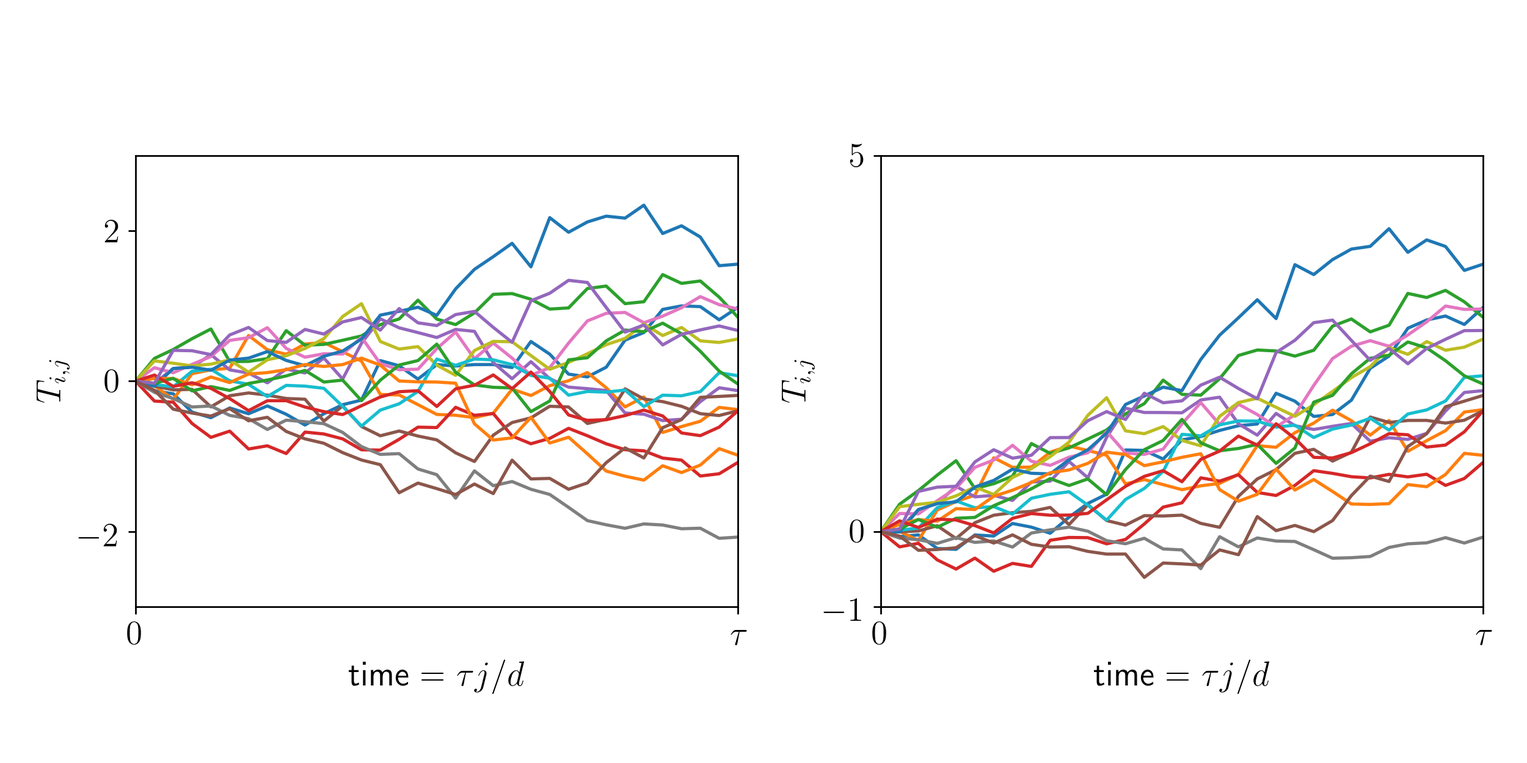
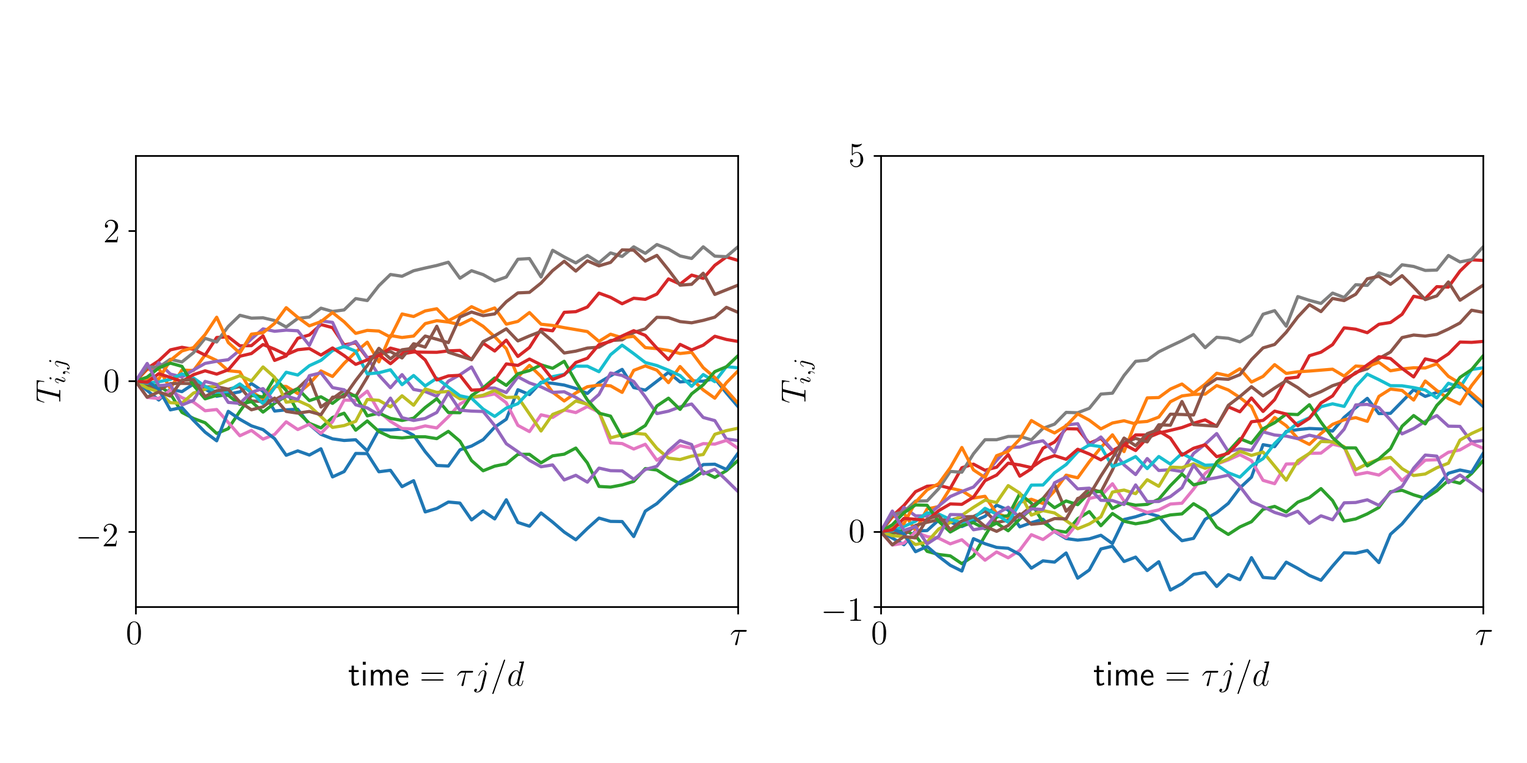
under the hood updates

Changed region(s): [[0.0936, 0.2808, 0.4992, 0.7176], [0.5616, 0.312, 0.9672, 0.78]]

diff --git a/QMCSoftwareArticleNoRho.tex b/QMCSoftwareArticleNoRho.tex
@@ -147,7 +147,7 @@ Department of Applied Mathematics, Illinois Institute of Technology,\\ RE 220, 1
 
 \maketitle
 
-\abstract{This is the article based on my MCQMC 2020 Tutorial. \AGSComment{Latest code demo at: \href{https://colab.research.google.com/drive/1wijwt0ugsJ9chUHtzSb3lQpc3-N8mCDs?usp=sharing}{https://colab.research.google.com/drive/1wijwt0ugsJ9chUHtzSb3lQpc3-N8mCDs?usp=sharing}}.}
+\abstract{This is the article based on my MCQMC 2020 Tutorial.}
 
 
 \section{Introduction} \label{sec:intro}
@@ -197,7 +197,7 @@ The error in using the sample mean to approximate the integral can be bounded ac
 \end{equation} 
 The variation is a (semi-) norm of the integrand in a suitable Banach space.  The discrepancy corresponds to the norm of the error functional for that Banach space.  For typical Banach spaces, the discrepancy of LD points is $\calO(n^{-1+\epsilon})$, which is a higher convergence order than for IID points.  For details, the reader is referred to the references.  For our purposes, we expect the reader to see in Figure \ref{fig:comparePts} that the LD points cover the integration domain more evenly than IID points.  In the examples below the reader will see the demonstrably smaller cubature errors arising from using LD points.
 
-In the sections that follow we first overview available QMC software.  We next describe an architecture for good QMC software, i.e., what are the key components and how should they interact.  We then describe how we have implemented this architecture in QMCPy.  Finally, we summarize further directions that we hope QMCPy and related software projects will take.  Those interested in following the development of QMCPy or even contributing to that development are urged to visit the GitHub repository at \href{https://qmcsoftware.github.io/QMCSoftware/}{\nolinkurl{https://qmcsoftware.github.io/QMCSoftware/}}.
+In the sections that follow we first overview available QMC software.  We next describe an architecture for good QMC software, i.e., what are the key components and how should they interact.  We then describe how we have implemented this architecture in QMCPy.  Finally, we summarize further directions that we hope QMCPy and related software projects will take.  Those interested in following the development of QMCPy or even contributing to that development are urged to visit the GitHub repository at \href{https://github.com/QMCSoftware/QMCSoftware}{\nolinkurl{https://github.com/QMCSoftware/QMCSoftware}}.
 
 \section{Available Software for QMC} \label{sec:available} 
 QMC software spans  LD sequence generators, algorithms, and applications.  We review the better known software collections, recognizing that some software overlaps multiple categories.
@@ -227,7 +227,7 @@ Software focusing on QMC algorithms and applications includes
 The sections that follow describe QMCPy \cite{QMCPy2020a}, which is our attempt to combine the best of the above software under a common user interface written in Python 3.  The choice of language was determined by the desire to make QMC software accessible to a broad audience, especially the tech industry.
 
 \section{Components of QMC Software}
-QMC cubature can be summarized as follows.  We want to approximate the integral oe expectation, $\mu$, well by the sample mean, $\hmu$, where \eqref{eq:integral}, \eqref{eq:fintegral}, and \eqref{eq:samplemean} combine to give
+QMC cubature can be summarized as follows.  We want to approximate the expectation, $\mu$, well by the sample mean, $\hmu$, where \eqref{eq:integral}, \eqref{eq:fintegral}, and \eqref{eq:samplemean} combine to give
 \begin{multline} \label{eq:cubSummary}
 	\mu : = \int_\calT g(\bst) \, \lambda(\bst) \, \D \bst  = \bbE[f(\bsX)] = \int_{\cube} f(\bsx) \, \D \bsx \approx \frac 1n \sum_{i=0}^{n-1} f(\bsX_i) =: \hmu, \\
 	 \bsX_0, \bsX_1, \ldots \sim \calU\cube.
@@ -247,7 +247,7 @@ This requires four components, which we implement as QMCPy classes.
 
 The software libraries referenced in Section \ref{sec:available} provide one or more of these components. QMCPy combines multiple examples of them all under and object oriented framework. Each example is implemented as a concrete class that realizes the properties and methods required by the abstract class for that component. The following sections detail descriptions and use cases for each component and select implementations. 
 
-Thorough documentation of all QMCPy classes can be found in \cite{QMCPyDocs}. Demonstrations of how QMCPy work are given in Google Colab notebooks \cite{QMCPyTutColab2020,QMCPyTutColab2020_paper} \AGSComment{Update \cite{QMCPyTutColab2020_paper}'s link}. The project may be installed from PyPI into your Python 3 environment via the command \texttt{pip install qmcpy}. In the codes that follows, we assume QMCPy has been imported alongside Numpy \cite{numpy} 
+Thorough documentation of all QMCPy classes can is available in \cite{QMCPyDocs}. Demonstrations of how QMCPy work are given in Google Colab notebooks \cite{QMCPyTutColab2020,QMCPyTutColab2020_paper} \AGSComment{Update \cite{QMCPyTutColab2020_paper}'s link}. The project may be installed from PyPI into your Python 3 environment via the command \texttt{pip install qmcpy}. In the codes that follows, we assume QMCPy has been imported alongside NumPy \cite{numpy} 
 %and Scipy \cite{scipy} 
 via
 \lstinputlisting[style=Python]{QMCSoftwareArticle/python/import.txt}
@@ -307,12 +307,12 @@ Here, $\bsZ_4$ differs from that for lattices, but more importantly, addition fo
 = (0.375,0.375) = \bsZ_6.
 \end{multline*}
 
-By contrast, if we construct a digital sequence using the generators for the lattice above with $\bsZ_2 = (0.25, 0.75)$, and $\bsZ_4 = (0.125, 0.875)$, we would obtain
+By contrast, if we construct a digital sequence using the generators for the lattice above with $\bsZ_2 = (0.25, 0.75)$, and $\bsZ_4 = (0.125, 0.375)$, we would obtain
 \begin{multline*}
-\bsZ_6 = \bsZ_2 \oplus_{\dig} \bsZ_4   = ({}_20.010,{}_20.110)  \oplus_{\dig} ({}_20.001,{}_20.111)  \\
-= ({}_20.011,{}_20.001) = (0.375, 0.125),
+\bsZ_6 = \bsZ_2 \oplus_{\dig} \bsZ_4   = ({}_20.010,{}_20.110)  \oplus_{\dig} ({}_20.001,{}_20.011)  \\
+= ({}_20.011,{}_20.101) = (0.375, 0.625),
 \end{multline*}
-which differs from the $\bsZ_6=(0.375, 0.625)$ constructed for lattices.  To emphasize, lattices and digital sequences are different, even if they share the same generators, $\bsZ_1, \bsZ_2, \bsZ_4, \ldots$.
+which differs from the $\bsZ_6=(0.375, 0.125)$ constructed for lattices.  To emphasize, lattices and digital sequences are different, even if they share the same generators, $\bsZ_1, \bsZ_2, \bsZ_4, \ldots$.
 
 The examples of \texttt{qp.Lattice} and \texttt{qp.Sobol} illustrate how QMCPy LD generators share a common user interface.  The dimension is specified when the instance is constructed, and the number of points is specified when the \texttt{gen\_samples} method is called.  Following Python practice, parameters can be input without specifying their names if they are input in the prescribed order.  QMCPy also includes Halton sequences and IID sequences, again deferring details to the QMCPy documentation \cite{QMCPyDocs}.
 
@@ -352,7 +352,7 @@ Figure \ref{fig:tm_ug} displays LD sequences transformed as described above to m
 \lstinputlisting[style=Python]{QMCSoftwareArticle/python/tm_uniform.txt}
 for uniform points based on a Halton sequence, and 
 \lstinputlisting[style=Python]{QMCSoftwareArticle/python/tm_gaussian.txt}
-for Gaussian points based on a lattice sequence.
+for Gaussian points based on a lattice sequence. Here the covariance decomposition $\mSigma = \mA \mA^T$ is done using principal component analysis. The Cholesky decomposition also available.
 
 \begin{figure}
 	\includegraphics[width=.45\textwidth]{QMCSoftwareArticle/figs/tm_uniform.png} 
@@ -372,7 +372,7 @@ Figure \ref{fig:tm_bm} displays a Brownian motion based on Sobol' sequence with 
 
 \begin{figure}
 	\includegraphics[width=1\textwidth]{QMCSoftwareArticle/figs/tm_bm.png} 
-	\caption{Sobol' samples transformed to mimic a 32-dimensional Brownian Motion without drift (left) and with drift coefficient 2 (right).}
+	\caption{Sobol' samples transformed to mimic a 52-dimensional Brownian Motion without drift (left) and with drift coefficient 2 (right).}
 	\label{fig:tm_bm}
 \end{figure}
 
@@ -393,7 +393,7 @@ We illustrate the use of the \texttt{Integrand} class via an example of Keister 
 	= \int_{\bbR^d} \cos(\lVert \bst \rVert) \exp(-\bst^T \bst) \, \D \bst \\ 
 	= \int_{\bbR^d} \underbrace{\pi^{d/2} \cos(\lVert \bst \rVert)}_{g(\bst)}\, \underbrace{\pi^{-d/2} \exp(-\bst^T \bst) }_{\lambda(\bst)} \, \D \bst.
 \end{equation}
-Since $\lambda$ is the density for $\calN(0,\mI/2)$, it is natural to choose $\bsPsi$ according to \eqref{eq:exampleVarTransGauss} with $\mA = \sqrt{1/2} \, \mI$, in which case $\lambda(\bsPsi(\bsx)) \QMCPYabs{\partial \bsPsi/\partial \bsx} / \varrho(\bsx) = 1$, and so 
+Since $\lambda$ is the density for $\calN(0,\mI/2)$, it is natural to choose $\bsPsi$ according to \eqref{eq:exampleVarTransGauss} with $\mA = \sqrt{1/2} \, \mI$, in which case $\lambda(\bsPsi(\bsx)) \QMCPYabs{\partial \bsPsi/\partial \bsx} = 1$, and so 
 \[
 \mu = \int_{[0,1]^d} \underbrace{\pi^{d/2} \cos(\lVert \bsPsi(\bsx) \rVert)}_{f(\bsx)} \, \D \bsx, \qquad 
 \bsPsi(\bsx) := \sqrt{1/2} \,\bsPhi^{-1}(\bsx).
@@ -414,14 +414,14 @@ Another way to approximate the Keister integral in \eqref{eq:KeisterIntegral} is
 	& = \int_{\bbR^d} \underbrace{\cos(\lVert \bst \rVert) \exp(-\bst^T \bst) }_{g(\bst)} \, \underbrace{1}_{\lambda(\bst)} \,\D \bst \\
 	& = \int_{[0,1]^d} \underbrace{\cos(\lVert \bsPsi(\bsx) \rVert) \exp(-\bsPsi^T\!\!(\bsx) \bsPsi(\bsx)) \QMCPYabs{\frac{\partial \bsPsi}{\partial \bsx}} }_{f(\bsx)} \, \D \bsx,
 \end{align*}
-where $\bsPsi$ is any transformation from $\bbR^d$ to $[0,1]^d$.  QMCPy can perform the cubature this way as well.
+where $\bsPsi$ is any transformation from $[0,1]^d$ to $\bbR^d$.  QMCPy can perform the cubature this way as well.
 \lstinputlisting[style=Python]{QMCSoftwareArticle/python/i_keisterLebesgue.txt}
-The $\bsPsi$ chosen when transforming uniform points on the unit cube to fill the $\bbR^d$ is the one given by \eqref{eq:exampleVarTransGauss} with $\mA = \mI$.
+The $\bsPsi$ chosen when transforming uniform points on the unit cube to fill $\bbR^d$ is the one given by \eqref{eq:exampleVarTransGauss} with $\mA = \mI$.
 
 In the examples above, one must input the correct $g$ into \texttt{CustomFun} along with the correct \texttt{TrueMeasure} $\lambda$ to define the integration problem. The \texttt{Keister} integrand included in the QMCPy library takes a more flexible approach of defining the integration problem $\mu$ in \eqref{eq:KeisterIntegral}. Selecting a different \texttt{sampler} $\bsPsi$ performs  \emph{importance sampling} which leaves $\mu$ unchanged.  
 \lstinputlisting[style=Python]{QMCSoftwareArticle/python/i_keisterBuiltIn.txt}
 
-In the first case above, the $\lambda$ in \eqref{eq:transVar} corresponds to the density IID Gaussian with mean zero and variance $1/2$ by default, and the corresponding variable transformation, $\bsPsi$, is chosen to make $\lambda\bigl(\bsPsi(\cdot)\bigr) \QMCPYabs{\partial \bsPsi/\partial \bsx} = 1$ and $f(\bsx) = g\left(\bsPsi(\bsx) \right)$.  In the second case,  we choose an importance sampling density $\lambda_{\IMP}$, corresponding  to standard  Gaussian, and the variable transformation $\bsPsi_{\IMP}$ makes $\lambda_\IMP\bigl(\bsPsi\IMP(\cdot)\bigr) \QMCPYabs{\partial \bsPsi_\IMP/\partial \bsx} = 1$.  Then
+In the first case above, the $\lambda$ in \eqref{eq:transVar} corresponds to the Gaussian density  with mean zero and variance $1/2$ by default, and the corresponding variable transformation, $\bsPsi$, is chosen to make $\lambda\bigl(\bsPsi(\cdot)\bigr) \QMCPYabs{\partial \bsPsi/\partial \bsx} = 1$ and $f(\bsx) = g\left(\bsPsi(\bsx) \right)$.  In the second case,  we choose an importance sampling density $\lambda_{\IMP}$, corresponding  to standard  Gaussian, and the variable transformation $\bsPsi_{\IMP}$ makes $\lambda_\IMP\bigl(\bsPsi\IMP(\cdot)\bigr) \QMCPYabs{\partial \bsPsi_\IMP/\partial \bsx} = 1$.  Then
 \begin{align}
 	\nonumber 
 	\mu &= \int_\calT g(\bst) \, \lambda(\bst) \, \D \bst  = \int_\calT g(\bst) \, \frac{\lambda(\bst)}{\lambda_\IMP(\bst) } \, \lambda_\IMP(\bst) \D \bst  \\ 
@@ -440,22 +440,22 @@ The \texttt{StoppingCriterion} object determines the number of samples $n$ that 
 
 Let us return to the Keister example from the previous section.  After setting up  a default \texttt{Keister} instance via a Sobol' \texttt{DiscreteDistribution}, we choose a \texttt{StoppingCriterion} object that matches the \texttt{DiscreteDistribution}, inputting our desired tolerance.  Calling the  \texttt{integrate} method returns the approximate integral plus some useful information about the computation.
 \lstinputlisting[style=Python]{QMCSoftwareArticle/python/sc_keister_qmc.txt}
-The second output of the stopping criterion provides helpful diagnostic information.  This computation required $n=2^{13}$ Sobol' points and $0.028$ seconds to complete.  The error bound is $0.000517$, which falls below the absolute tolerance.
+The second output of the stopping criterion provides helpful diagnostic information.  This computation required $n=2^{13}$ Sobol' points and $0.028$ seconds to complete.  The error bound is $0.000565$, which falls below the absolute tolerance.
 
 QMC, which uses LD sequences, is touted as providing substantially greater computational efficiency compared to IID MC.
 Figure \ref{fig:sc_comp} compares the time and sample sizes needed to compute the $5$-dimensional Keister integral \eqref{eq:KeisterIntegral} using IID sequences and LD lattice sequences. Consistent with what is stated in Section \ref{sec:intro}, the error of IID MC is $\calO(n^{-1/2})$, which means that the time and sample size to obtain an absolute error tolerance of $\varepsilon$ is $\calO(\varepsilon^{-2})$.  By contrast, the  error of QMC using LD sequences is $\calO(n^{-1+\epsilon})$, which implies $\calO(\varepsilon^{-1-\epsilon})$ times and sample sizes.  We see that QMC methods often require orders of magnitude fewer samples that MC methods to achieve the same error tolerance.
 
 \begin{figure}
 	\includegraphics[height=6cm]{QMCSoftwareArticle/figs/sc_comp.png}
-	\caption{Comparison of run times and sample sizes for computing the $5$-dimensional Keister integral \eqref{eq:KeisterIntegral} using IID and LD lattice sequences for a variety of absolute error tolerances.  The respective stopping criteria are  \texttt{CubMCG} \AGSComment{CITE} and  \texttt{CubQMCLatticeG} \AGSComment{CITE}. The LD sequences provide the desired answer much more efficiently.}
+	\caption{Comparison of run times and sample sizes for computing the $5$-dimensional Keister integral \eqref{eq:KeisterIntegral} using IID and LD lattice sequences for a variety of absolute error tolerances. The respective stopping criteria are  \texttt{qp.CubMCG} \cite{HicEtal14a} and  \texttt{qp.CubQMCLatticeG} \cite{JimHic16a} \AGSComment{Citations correct?}. The LD sequences provide the desired answer much more efficiently.}
 	\label{fig:sc_comp}
 \end{figure}
 
-For another illustration of QMC cubature, we turn to pricing an Asian arithmetic mean call option. The payoff of this option is the positive difference between the strike price averaged over the time horizon and the strike price, $K$: 
+For another illustration of QMC cubature, we turn to pricing an Asian arithmetic mean call option. The payoff of this option is the positive difference between the strike price, $K$, averaged over the time horizon: 
 $$
 \text{payoff}(\bsS) = \max\left(\frac{1}{2d}\sum_{j=1}^d (S_{j-1}+S_j)-K,0\right), \quad \bsS = (S_0, \ldots, S_d).
 $$
-where $S_j$ denotes the stock price at time $\tau j/d$.  A basic model for stock prices is a geometric Brownian motion, 
+Here $S_j$ denotes the stock price at time $\tau j/d$, and a trapezoidal rule is used for discrete approximation.  A basic model for stock prices is a geometric Brownian motion, 
 \[
 S_j(\bsT) = S_0 \exp((r - \sigma^2) \tau j/d + \sigma T_j),   \;  j = 1, \ldots, d, \; \bsT = (T_1, \ldots, T_d)\sim \calN(0,\mSigma),
 \]
@@ -466,7 +466,7 @@ where $\mSigma$ is defined in \eqref{eq:BMcov}, $r$ is the interest rate, $\sigm
 
 The following code utilizes QMCPy's Asian option \texttt{Integrand} object to approximate the Asian call option for a particular choice of the parameters.
 \lstinputlisting[style=Python]{QMCSoftwareArticle/python/sc_aco.txt}
-Because this \texttt{Integrand} object has the built-in Brownian motion t\texttt{TrueMeasure}, one only neeed provide the LD sampler.
+Because this \texttt{Integrand} object has the built-in Brownian motion \texttt{TrueMeasure}, one only need provide the LD sampler.
 
 Out of the money option price calculations can be sped up by adding a drift to the Brownian motion that produces more in the money paths.  This is a form of importance sampling.  Using a Brownian motion without drift we get
 \lstinputlisting[style=Python]{QMCSoftwareArticle/python/wo_imp_samp_aco.txt}
@@ -474,8 +474,7 @@ Adding the drift gives us the answer faster:
 \lstinputlisting[style=Python]{QMCSoftwareArticle/python/w_imp_samp_aco.txt}
 The choice of a good drift is an art.  
 
-The the improvement in time is less than improvement in $n$ because the integrand is more expensive to compute in when the drift is employed.  Referring to \eqref{eq:transVarImp}, in the case of no drift, the $\lambda$ corresponds to the density for the discrete Brownian motion, and the variable transformation $\bsPsi$ is chosen so that $f(\bsx) = g\left(\bsPsi(\bsx) \right)$.  However, in the case of a drift, the integrand becomes  $f_\IMP(\bsx)  = g\bigl(\bsPsi_\IMP(\bsx)\bigr)  \lambda\bigl(\bsPsi_\IMP(\bsx)\bigr)/\lambda_\IMP\bigl(\bsPsi_\IMP(\bsx)\bigr)$, which requires more computation time per integrand value.   more 
-
+The improvement in time is less than improvement in $n$ because the integrand is more expensive to compute when the drift is employed.  Referring to \eqref{eq:transVarImp}, in the case of no drift, the $\lambda$ corresponds to the density for the discrete Brownian motion, and the variable transformation $\bsPsi$ is chosen so that $f(\bsx) = g\left(\bsPsi(\bsx) \right)$.  However, in the case of a drift, the integrand becomes  $f_\IMP(\bsx)  = g\bigl(\bsPsi_\IMP(\bsx)\bigr)  \lambda\bigl(\bsPsi_\IMP(\bsx)\bigr)/\lambda_\IMP\bigl(\bsPsi_\IMP(\bsx)\bigr)$, which requires more computation time per integrand value. 
 
 \AGSComment{Bayesian stopping criterion}
 
@@ -483,43 +482,61 @@ The the improvement in time is less than improvement in $n$ because the integran
 
 In this section, we look at the inner workings of QMCPy and point out features we hope will benefit the community of QMC researchers and practitioners. We also highlight important idiosyncrasies of QMC methods and how QMCPy addresses these challenges. For details readers should refer to the QMCPy documentation \cite{QMCPyDocs}.
 
-\subsection{Link to LatNetBuilder}
+\subsection{Low Discrepancy Sequences}
 
-QMCPy provides users access to high quality lattice and digital net generators (defined in Table \ref{tab:GroupProp}). A LD generator is comprised of two parts: the static generating vectors $\bsZ_1,\bsZ_2,\bsZ_4, \dots \in [0,1)^d$ and the callable generator function. QMCPy integrates nicely with LatNetBuilder \cite{LEcEtal22a,LatNet}. QMCPy's lattice and digital net generators can accept vectors from LatNetBuilder to generate custom lattice and digital net sequences. We defer readers to latnetbuilder and QMCPy documentation \AGSComment{CITE BOTH} for details. 
+LD sequences are the backbone of QMC methods. QMCPy provides generators that combine research from the across the QMC community to enable advanced features and customization options.
 
-\subsection{Customization Options for Low Discrepancy Generators}
+Two popular LD sequences are integration lattices and digital nets which we previously outlined in Table \ref{tab:GroupProp}. These LD generators are comprised of two parts: the static generating vectors $\bsZ_1,\bsZ_2,\bsZ_4, \dots \in [0,1)^d$ and the callable generator function. By default, QMCPy provides a number of high quality generating vectors for users to choose from. For instance, the default ordinary lattice vector was constructed by Cools, Kuo, and Nuyens \cite{doi:10.1137/06065074X} \AGSComment{correct? Check website. Already added?} to support 3600 dimensions and $2^{20}$ samples. However, users who require more samples but fewer dimensions may switch to a generating vector constructed using LatNet Builder \cite{LEcEtal22a,LatNet} to support 750 dimensions and $2^{24}$ samples. Moreover, the \texttt{qp.Lattice} and \texttt{qp.DigitalNet} objects allow users to input their own generating vectors to produce highly customized sequences. To find such vectors, we recommend using LatNet Builder's construction routines as the results can be easily parsed into a QMCPy-compatible format. 
 
-QMCPy's LD generators support several customizations. Our in-house digital net generator allows digital shifts, linear  scrambling \cite{Mat98}, optional graycode orderings, and an optionally non-zero starting dimension\FJHComment{What?}.  Not all digital net generators provide linear scrambling. Moreover, while most lattice and digital net generators use a fixed generating vector, QMCPy allows users to input their own vector for their specific need, as detailed in the previous subsection.
+Along with the selection of a generating vector, QMCPy's low-discrepancy sequence routines expose a number of other customization parameters. For instance, the lattice generator extends the Magic Point Shop \cite{Nuy17a} to support either linear or natural ordering. Digital sequences permit either standard or Graycode ordering and may be randomized via a digital shift optionally combined with a linear scrambling \cite{Mat98}. Halton sequences may be randomized via the routines of either Owen \cite{Owe20a} or Hofert and Lemieux \cite{QRNG2020}. 
+\subsubsection{A Word of Caution on Using LD Sequences}
 
-\subsection{\texttt{print}ing  QMCPy Instances}
+Although QMCPy's discrete distributions have many of the same parameters and methods, one must be careful when swapping IID points with LD sequences. While IID node-sets have no preferred sample size, LD sequences often require special sampling ranges to ensure optimal discrepancy. As touched on earlier, digital nets and integration lattices require sample sizes that are powers of 2 in order to guarantee equal sampling density (see \AGSComment{CITE} for a more thorough treatment). On the other hand, $d$-dimensional Halton points need samples sizes that are a multiple of $\prod_{j=1}^d p_i$ where $p_i$ is the $i^{\text{th}}$ prime number \AGSComment{right?}. Due to the infrequency of such multiples, Halton points are often regarded as not having a preferred sample size.  
 
-QMCPy provides the a \texttt{print} command to display information about instances of QMCPy classes. In the sample code in Section \ref{sec:stopping_crit} this command was used show the output of a \texttt{StoppingCriteroion}'s \texttt{integrate} method.
+One also runs into trouble when trying to generate too many samples. Since QMCPy's generators construct sequences in 32-bit precision, generating greater than $2^{32}$ consecutive samples will cause the sequence to repeat. In the future we plan to expand our generators to support optional 64-bit precision at the cost of greater computational overhead.
 
+Another subtelty arises when a user transforms LD sequences to mimic different distributions. As mentioned earlier, unrandomized lattice and digital sequences include the origin, making transformations such as \eqref{eq:exampleVarTransGauss} produce infinite values. Moreover, the nice low discrepancy properties of sequences are not preserved when transformations are applied. \AGSComment{Explain better? Cite paper with Professor Kang?}
 
-faulted for any given component. This feature was already used to print the data object returned by the stopping criterion's \texttt{integrate} method in Section \ref{sec:stopping_crit}. The following code prints a drifted \texttt{BrownianMotion} instance and displays the connection to an underlying Gaussian measure. 
-\lstinputlisting[style=Python]{QMCSoftwareArticle/python/print_bm.txt}
+\AGSComment{Do we need this sub-sub-section? Most of it has already been mentioned earlier in the paper.}
 
+\subsection{Transformations}
 
-\AGSComment{
-\begin{itemize}
-    \item we have better generating vector (under latnetbuilder sub-section)
-    \item transform from LD does not guarantee LD in new distribution
-    \item Sobol' samples will repeat after $2^{32}$ samples
-    \item multi-level stopping criterion
-    \item PCA and Cholesky decomposition for Gaussian (and Brownian Motion which is a subclass of Gaussian)
-\end{itemize}}
+The choice of transformation $\bsPsi$ defines the connection between a discrete distribution and true measure. Up to this point, we have assumed the discrete distribution mimics a $\calU[0,1]^d$ measure with PDF $\varrho(\bsx)=1$. However, it may be advantageous to utilize a discrete distribution that mimics a different measure. For instance, IID standard Gaussian nodes may be transformed to mimic a Gaussian distribution without the inverse CDF transform required for nodes mimicking $\calU[0,1]^d$. If a discrete distribution mimics distribution $D$ with PDF $\varrho$ supported on $\calX$, \eqref{eq:transVar} may be rewritten as
+\begin{equation*}
+ \mu = \int_\calT g(\bst) \, \lambda(\bst) \, \D \bst  =  \int_{\calX}f(\bsx) \, \varrho(\bsx) \D \bsx  \quad \text{where } \quad f(\bsx)  = g\bigl(\bsPsi(\bsx)\bigr)  \, \frac{\lambda\bigl(\bsPsi(\bsx)\bigr)}{\varrho(\bsx)} \,\QMCPYabs{\frac{\partial \bsPsi}{\partial \bsx}}.
+\end{equation*}
+QMCPy includes an IID standard Gaussian discrete distribution which may be transformed to mimic a Gaussian true measure.
 
-\section{Further Work} \label{sec:further}
+If weight $\lambda$ corresponds to a probability density, QMCPy can select $\bsPsi$ so that $\lambda\bigl(\bsPsi(\bsx)\bigr) \lvert \partial \bsPsi/ \partial \bsx\rvert = \varrho(\bsx)$ and $f(\bsx)=g(\bsPsi(\bsx))$. However, if $\lambda$ does not correspond to a probability density, an importance sampling measure must be selected as in \eqref{eq:transVarImp}.
+
+QMCPy includes support for multiple importance sampling. Suppose we are given weight $\lambda$, sampling PDF $\varrho$ with support $\calX$, and importance sampling transformation $\bsPsi_\IMP = (\bsPsi_L \circ \bsPsi_{L-1} \circ \dots \circ \bsPsi_1)(\bsx)$. Here, $\bsPsi_l$ transforms samples mimicking distribution $\varrho_l$ to mimic probability density $\lambda_l$, meaning $\lambda_l(\bsPsi_l(\bsx))\lvert \partial \bsPsi_l / \partial \bsx \rvert = \varrho_l(\bsx)$. Denote by $\hat{\bsPsi}_l(\bsx)=(\bsPsi_l \circ \bsPsi_{l-1} \circ \dots \circ \bsPsi_1)(\bsx)$ the composition of the first $l$ transforms and assume $\hat{\bsPsi}_0(\bsx)=\bsx$, the identity transform. If $\lvert \bsPsi_l'(\bsx) \rvert$ denotes the Jacobian of the $l^{\text{th}}$ transform evaluated at $\bsx$, then we may write $\mu =  \int_{\calX}f(\bsx) \, \varrho(\bsx) \D \bsx$ for 
+\begin{align*}
+ f(\bsx) 
+ &= g\left(\bsPsi_\IMP(\bsx)\right)\frac{\lambda(\bsPsi_\IMP(\bsx))}{\varrho(\bsx)}\prod_{l=1}^L \left\lvert \bsPsi_l'\left(\hat{\bsPsi}_{l-1}(\bsx)\right) \right\rvert \D \bsx \\
+ &= g\left(\bsPsi_\IMP(\bsx)\right)\frac{\lambda(\bsPsi_\IMP(\bsx))}{\varrho(\bsx)}\prod_{l=1}^L \frac{\varrho_l(\hat{\bsPsi}_{l-1}(\bsx))}{\lambda_l(\hat{\bsPsi}_l(\bsx))} \D \bsx.
+\end{align*}
+\AGSComment{Do we want the implementation to follow the first or second equation? QMCPy current follows first equation (directly computes Jacobians), which may allow for transforms that do not correspond to PDFs. However, the second equation would be easier for QMCPy contributors who then do not need to compute Jacobians for their transforms. May also be computationally cheaper i.e. Gaussian Jacobian requires PDF and inverse CDF computations, where the second equation would save the inverse CDF computation.}
+
+For an example of multiple importance sampling, we return to the Keister function \eqref{eq:KeisterIntegral}. The following code constructs three instances: the default Keister function without importance sampling (\texttt{k1}), the Keister function importance sampled by a Gaussian $\calN(0,3/4)$ measure (\texttt{k2}), and the Keister function importance sampled by both a standard Gaussian and Kumaraswamy distribution (\texttt{k3}). The multiple importance sampling in the third integrand is valid as the Kumaraswamy transform takes the unit cube to the unite cube, and the Gaussian transform is as defined in Equation \ref{eq:exampleVarTransGauss}. The code concludes by printing the time required for QMC integration (\texttt{INT}) to achieve absolute tolerance $5*10^{-8}$.
+\lstinputlisting[style=Python]{QMCSoftwareArticle/python/multiple_IS.txt}
+Notice how importance sampling in areas of high variation speeds up the computation. This idea is illustrated in Figure \ref{fig:mIS} using the functions from the above code. 
+\begin{figure}
+    \centering
+	\includegraphics[width=.8\textwidth]{QMCSoftwareArticle/figs/multiple_IS.png}
+	\caption{Keister functions with and without importance sampling (\texttt{IS}). Note that the Keister functions using importance sampling are generally less variable and therefore easier to integrate, as evidenced by the faster integration times.} \label{fig:mIS}
+\end{figure}
+
+\section{Further Work} \label{sec:further} \FJHComment{Fred will draft}
 
 \AGSComment{
 \begin{itemize}
     \item Better multi-level stopping criterion (Pieterjan)
-    \item Multi-composed transforms $\bsPsi$ (multiple Jacobian factors)
     \item Niederreiter sequences (Adrian and Onyekachi)
     \item Sobol' indicies (Chris Hoyt)
-    \item transformations for discrete distributions that do not mimic $\calU[0,1]^d$
     \item control variates
     \item vectorized integrals
+    \item Sobol': PyTorch  backend
+    \item Sobol': LMS without digital shift. Can we call this a randomization as it only changes the generating vectors, but the $0^{th}$ point is still $0$
 \end{itemize}}
 
 \begin{acknowledgement}
@@ -533,7 +550,7 @@ We also thank the referees for their many helpful suggestions.  This work is sup
 \bibliography{FJH23,FJHown23,QMCSoftwareArticle}
 
 
-
+\iffalse
 \AGSComment{
 
 \section{Extra Derivations}
@@ -608,6 +625,18 @@ where $\hat{\bsPsi}_0(\bsx) = \bsx$.
 \end{itemize}
 \end{itemize}
 }
+
+\AGSComment{
+\subsection{\texttt{print}ing  QMCPy Instances}
+
+QMCPy provides the a \texttt{print} command to display information about instances of QMCPy classes. In the sample code in Section \ref{sec:stopping_crit} this command was used show the output of a \texttt{StoppingCriteroion}'s \texttt{integrate} method.
+
+faulted for any given component. This feature was already used to print the data object returned by the stopping criterion's \texttt{integrate} method in Section \ref{sec:stopping_crit}. The following code prints a drifted \texttt{BrownianMotion} instance and displays the connection to an underlying Gaussian measure. 
+\lstinputlisting[style=Python]{QMCSoftwareArticle/python/print_bm.txt}}
+
+
+\fi 
+
 
 \end{document}
 

diff --git a/QMCSoftwareArticle.tex b/QMCSoftwareArticle.tex
@@ -449,7 +449,7 @@ where $\mSigma$ is defined in \eqref{eq:BMcov}, $r$ is the interest rate, $\sigm
 
 The following code utilizes QMCPy's Asian option \texttt{Integrand} object to approximate the Asian call option for a particular choice of the parameters.
 \lstinputlisting[style=Python]{QMCSoftwareArticle/python/sc_aco.txt}
-Because this \texttt{Integrand} object has the built-in Brownian motion t\texttt{TrueMeasure}, one only neeed provide the LD sampler.
+Because this \texttt{Integrand} object has the built-in Brownian motion \texttt{TrueMeasure}, one only neeed provide the LD sampler.
 
 Out of the money option price calculations can be sped up by adding a drift to the Brownian motion that produces more in the money paths.  This is a form of importance sampling.  Using a Brownian motion without drift we get
 \lstinputlisting[style=Python]{QMCSoftwareArticle/python/wo_imp_samp_aco.txt}
@@ -457,20 +457,17 @@ Adding the drift gives us the answer faster:
 \lstinputlisting[style=Python]{QMCSoftwareArticle/python/w_imp_samp_aco.txt}
 The choice of a good drift is an art.  
 
-The the improvement in time is less than improvement in $n$ because the integrand $f$ is more expensive to compute in when the drift is added.  In the case of no drift, the $\lambda$ in \eqref{eq:transVar} corresponds to the density for the discrete Brownian motion, and the variable transformation $\bsPsi$ is chosen so that $\lambda\bigl(\bsPsi(\cdot)\bigr) \QMCPYabs{\partial \bsPsi/\partial \bsx} = \varrho(\bsx) = 1$ and $f(\bsx) = g\left(\bsPsi(\bsx) \right)$.  However, if we choose $\lambda_{\IMP}$ as our importance sampling density and $\bsPsi_{\IMP}$ as the variable transformation corresponding to $\lambda_\IMP\bigl(\bsPsi\IMP(\cdot)\bigr) \QMCPYabs{\partial \bsPsi_\IMP/\partial \bsx} = \varrho(\bsx) = 1$, then
+The improvement in time is less than improvement in $n$ because the integrand $f$ is more expensive to compute when the drift is added.  In the case of no drift, the $\lambda$ in \eqref{eq:transVar} corresponds to the density for the discrete Brownian motion, and the variable transformation $\bsPsi$ is chosen so that $\lambda\bigl(\bsPsi(\cdot)\bigr) \QMCPYabs{\partial \bsPsi/\partial \bsx} = \varrho(\bsx) = 1$ and $f(\bsx) = g\left(\bsPsi(\bsx) \right)$.  However, if we choose $\lambda_{\IMP}$ as our importance sampling density and $\bsPsi_{\IMP}$ as the variable transformation corresponding to $\lambda_\IMP\bigl(\bsPsi_\IMP(\cdot)\bigr) \QMCPYabs{\partial \bsPsi_\IMP/\partial \bsx} = \varrho(\bsx) = 1$, then
 \begin{align}
 	\nonumber 
 	\mu &= \int_\calT g(\bst) \, \lambda(\bst) \, \D \bst  = \int_\calT g(\bst) \, \frac{\lambda(\bst)}{\lambda_\IMP(\bst) } \, \lambda_\IMP(\bst) \D \bst  \\ 
 	\nonumber
 	& =  \int_\calX g\bigl(\bsPsi_\IMP(\bsx)\bigr) \, \frac{\lambda\bigl(\bsPsi_\IMP(\bsx)\bigr)} {\lambda_\IMP\bigl(\bsPsi_\IMP(\bsx)\bigr) } \lambda_\IMP\bigl(\bsPsi_\IMP(\bsx)\bigr) \,\QMCPYabs{\frac{\partial \bsPsi_\IMP}{\partial \bsx}} \, \D \bsx \\
 	\nonumber
-	& =  \int_\calX f(\bsx) \, \varrho(\bsx) \, \D \bsx  \\
+	& =  \int_\calX f_\IMP(\bsx) \, \varrho(\bsx) \, \D \bsx  \\
 	\label{eq:transVarImp}
 	& \qquad \qquad \text{where } f_\IMP(\bsx)  = g\bigl(\bsPsi_\IMP(\bsx)\bigr)  \,  \frac{\lambda\bigl(\bsPsi_\IMP(\bsx)\bigr)} {\lambda_\IMP\bigl(\bsPsi_\IMP(\bsx)\bigr) }
 \end{align}
-
-
-
 
 
 \begin{figure}
@@ -479,14 +476,6 @@ The the improvement in time is less than improvement in $n$ because the integran
 	\caption{Left: Brownian Motion paths with drift $a=2$. Right: Corresponding Asian Call option paths with $S_0=30$, $K=45$, $\sigma=0.5$, and $r=0$.}
 	\label{fig:aco}
 \end{figure}
-
-
-
-
-
-
-s ca
-
 
 Figure \ref{fig:aco} shows drifted Brownian motion paths and their corresponding option pricing paths. 
 \AGSComment{Bayesian stopping criterion}
